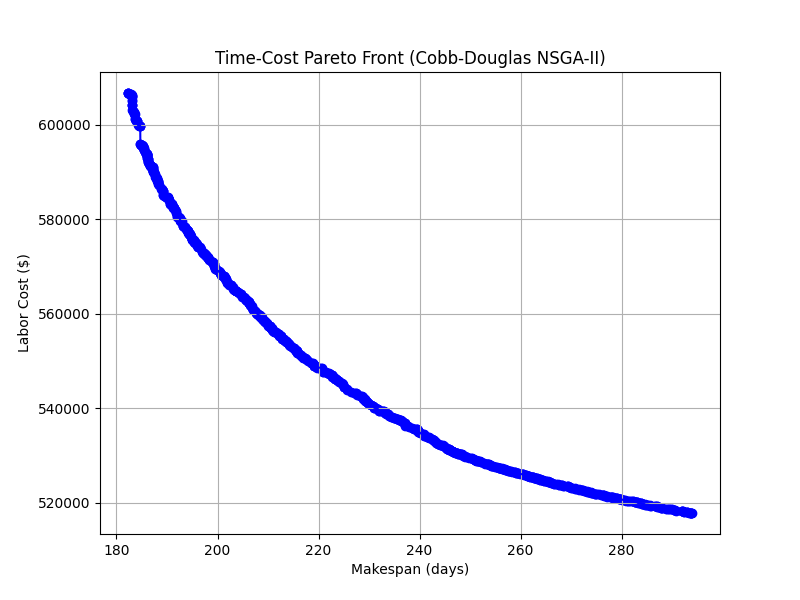
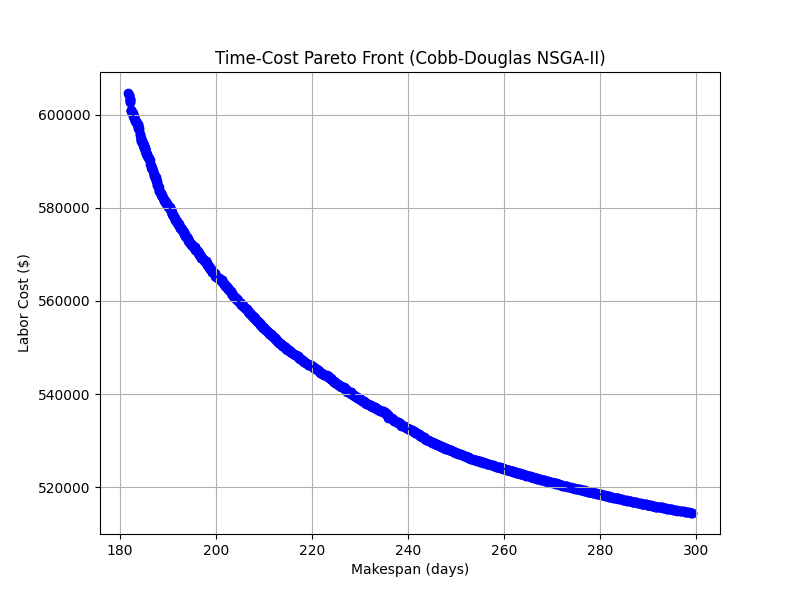
Enhance performance by implementing multithreading in the solve function and adjust tolerance for multiobjective optimization

diff --git a/implementasi-cobb/cobb_model.py b/implementasi-cobb/cobb_model.py
@@ -35,7 +35,7 @@ from pymoo.termination import get_termination
 from pymoo.termination.ftol import MultiObjectiveSpaceTermination
 from pymoo.termination.robust import RobustTermination
 import matplotlib.pyplot as plt
-
+from multiprocessing.pool import ThreadPool
 
 # ===========================================================================
 # Path Helper
@@ -808,10 +808,12 @@ def solve(problem, pop_size=200, seed=42, verbose=True,
 
     if callback is None:
         callback = MyCallback()
+        
+    pool = ThreadPool(processes=4)
 
     res = minimize(
         problem, algorithm, termination,
-        seed=seed, callback=callback, verbose=verbose,
+        seed=seed, callback=callback, verbose=verbose, starmap=pool.starmap,
     )
 
     if is_moo:

diff --git a/implementasi-cobb/run_multiobjective.py b/implementasi-cobb/run_multiobjective.py
@@ -19,7 +19,7 @@ def run_multiobjective():
         mode="multiobjective",
     )
 
-    res_moo = solve(problem, pop_size=1200, tol=0.002, seed=42, verbose=True)
+    res_moo = solve(problem, pop_size=1200, tol=0.0005, seed=42, verbose=True)
 
     if res_moo is not None and res_moo.F is not None:
         F = res_moo.F
